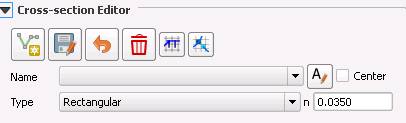
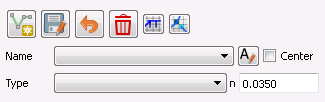
Added manual entry for reservoir and floodplain sections
updated some dock widget figures

Changed region(s): [[0.0, 0.0, 1.0, 0.9118], [0.0, 0.5, 0.1231, 0.6765], [0.0, 0.7647, 0.0923, 0.8824]]

diff --git a/docs/user/source/creating_new_model.rst b/docs/user/source/creating_new_model.rst
@@ -402,3 +402,48 @@ Once, all the left banks and cross sections are added, you can run |schematize_x
 	:alt: XsecTableAttrib
 
 	Schematized channel and cross sections **UPDATE ME**
+
+Initial condition
+-----------------
+Users can assign initial condition to the floodplain and channel segments. To add initial condition (reservoirs) to floodplain, click on |add_reservoir| **Add reservoir** tool from the **Initial Condition Editor** panel.
+
+.. |add_reservoir| image:: ../../../flo2d/img/add_reservoir.png
+
+.. figure:: img/ic_editor.png
+	:align: center
+	:alt: ic_editor
+
+	The Initial Condition Editor panel
+
+Digitize a point, where you want to apply the initail condition and assign a name and a value within the panel. Click on |schematize_res| to schematize the reservoir points.
+
+.. |schematize_res| image:: ../../../flo2d/img/schematize_res.png
+
+.. figure:: img/ICUserSchematicLayer.png
+	:align: center
+	:alt: ICUserSchematicLayer
+
+	User points for the initial condition (reservoirs) and schematized grids
+
+Floodplain sections
+-------------------
+
+To add a floodplain cross section, click on |add_fpxs| from the **Floodplain Cross-section Editor** panel and digitize a line. Click on |mActionSaveAllEdits| save button and then assign a name and select a direction from the panel.
+
+.. |add_fpxs| image:: ../../../flo2d/img/add_fpxs.png
+
+.. figure:: img/fpxsec_editor.png
+	:align: center
+	:alt: fpxsec_editor
+
+	The Floodplain Cross-section Editor panel
+
+To schematize the floodplain sections, click on |schematize_fpxs| from the panel. You should be able to see the schematized floodplain grids and lines.
+
+.. |schematize_fpxs| image:: ../../../flo2d/img/schematize_fpxs.png
+
+.. figure:: img/FpUserSchematicLayers.png
+	:align: center
+	:alt: FpUserSchematicLayers
+
+	User floodplain cross section and schematized floodplain layers
